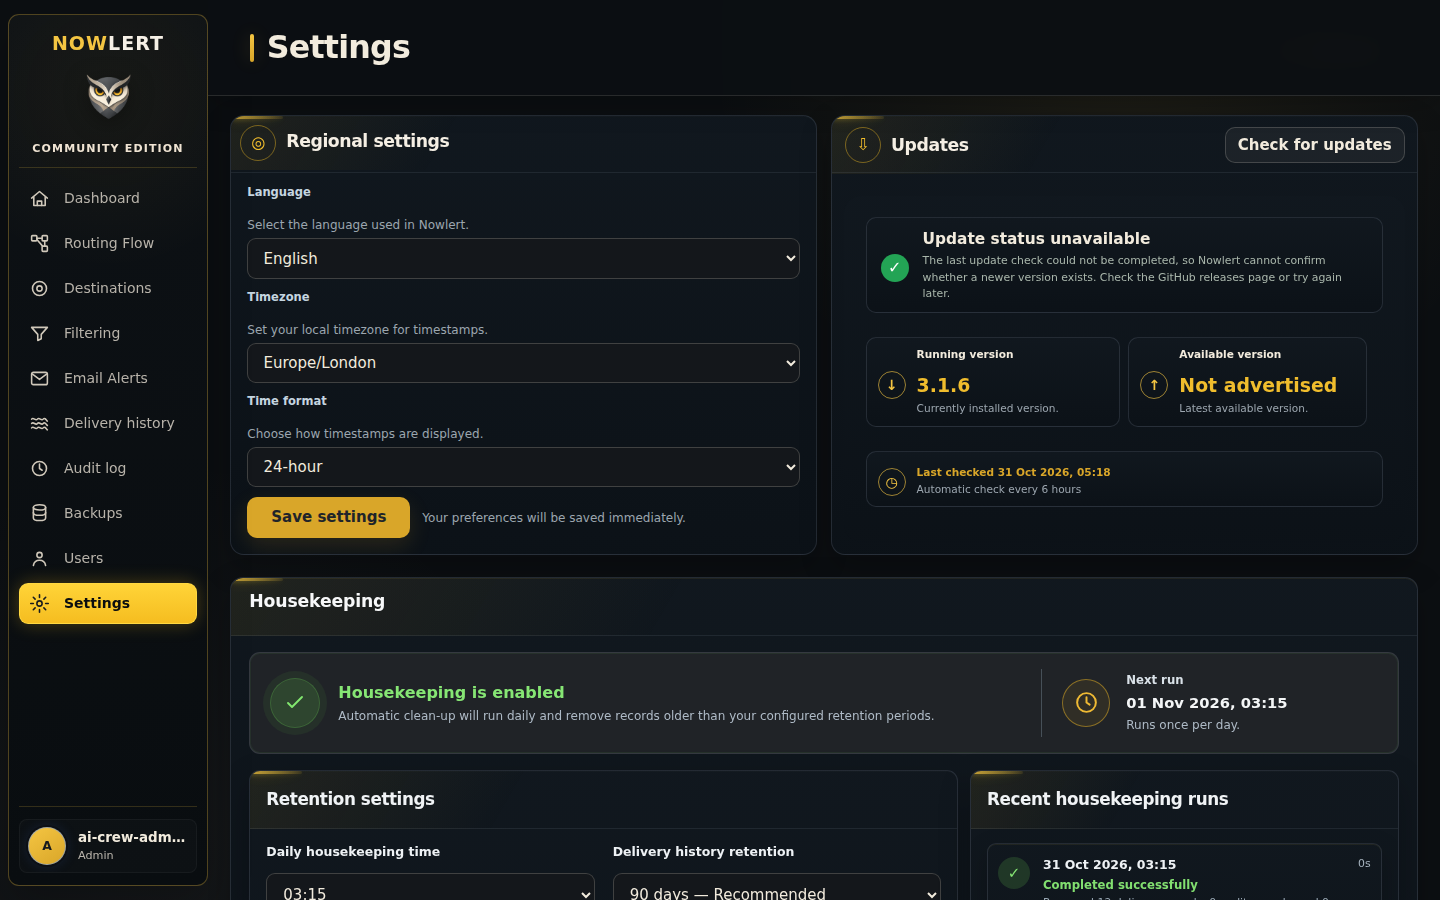
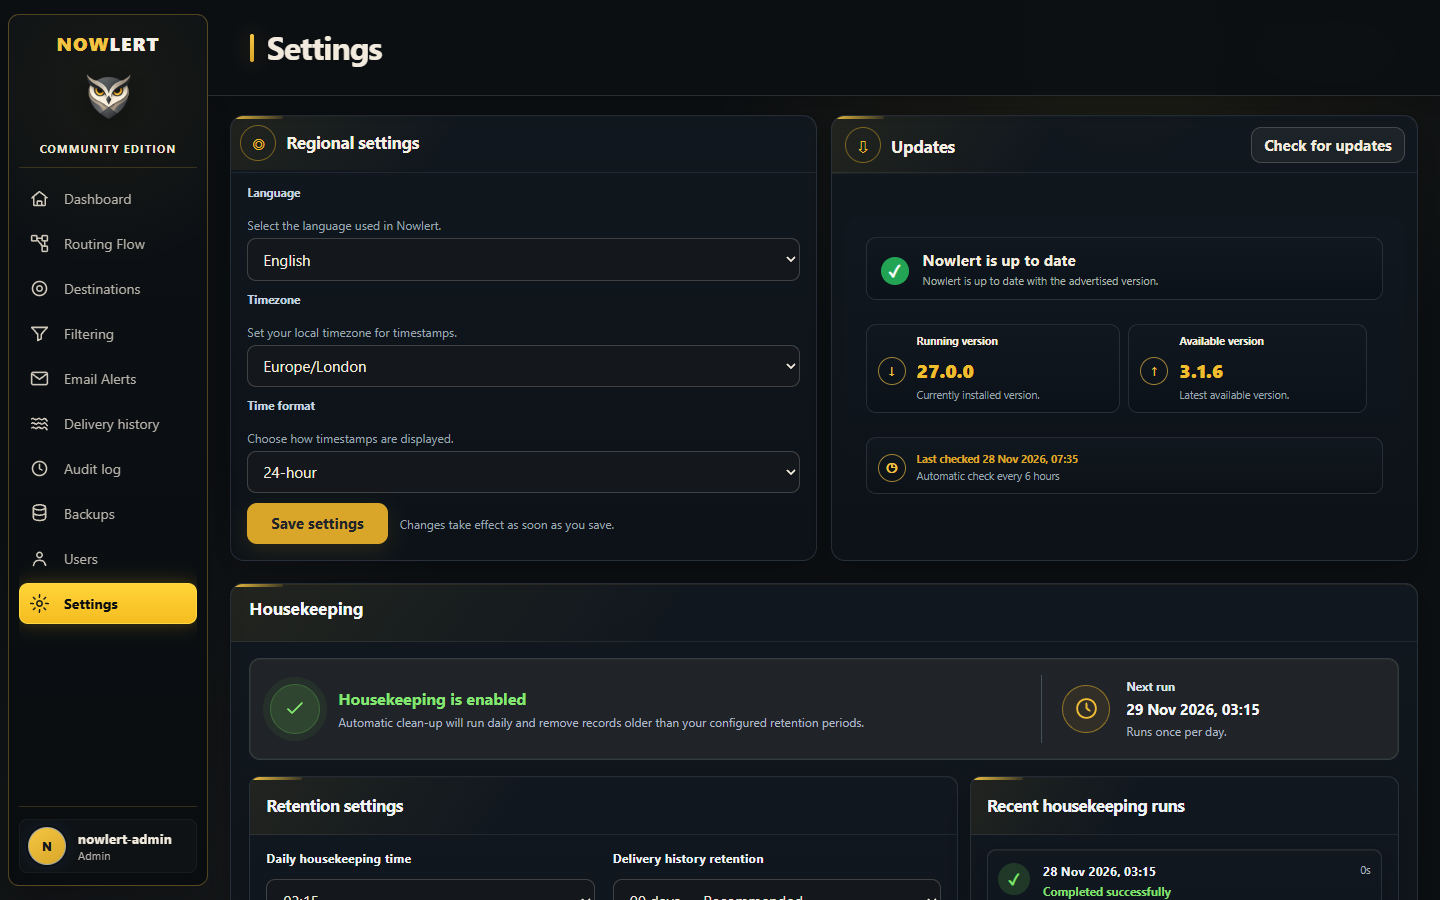
docs: retake the Settings and Audit log captures after the readiness fixes
The update card now shows its tick only after a successful check and the audit
trend figures are coloured by good or bad news (PRs 672 and 673). Both captures
are taken again on Development ea51fc67 as the neutral test administrator
nowlert-admin; the Audit log keeps solid black boxes over the record identifiers
only. The images README, the privacy inventory and the WebUI guide alt text
record the new files.

diff --git a/docs/images/v27.0.0-rc.1/README.md b/docs/images/v27.0.0-rc.1/README.md
@@ -9,6 +9,8 @@ and the Filtering capture from the Development build `0c14583c`; see
 2026" below.
 Eight captures were replaced on 12 November 2026 from the Development build
 `0011c903`; see "Replaced on 12 November 2026" below.
+The Settings and Audit log captures were replaced on 28 November 2026 from the
+Development build `ea51fc67`; see "Replaced on 28 November 2026" below.
 Nowlert CE is a desktop web
 application: since 25 October 2026 the Preview of the repository README and
 the Docker Hub README shows four of its desktop captures at full width,
@@ -52,8 +54,8 @@ pixels at scale 1: 1440×900 (desktop), 768×1024 (tablet) and 390×844 (phone).
 | `destinations-list-admin-1440.png` | Destinations list | administrator | 1440 | 15:48 |
 | `filtering-list-admin-1440.png` | Filtering with Integration behavior | administrator | 1440 | replaced 12 Nov 2026, 19:00 |
 | `email-alerts-rules-admin-1440.png` | Email Alerts, Rules tab | administrator | 1440 | 15:49 |
-| `audit-log-overview-admin-1440.png` | Audit log (user column, record identifiers and sidebar account name masked on 2 Nov 2026) | administrator | 1440 | 15:49 |
-| `settings-regional-admin-1440.png` | Settings (Regional, Updates, Housekeeping) | administrator | 1440 | replaced 31 Oct 2026, 05:21 |
+| `audit-log-overview-admin-1440.png` | Audit log (record identifiers masked) | administrator | 1440 | replaced 28 Nov 2026, 08:17 |
+| `settings-regional-admin-1440.png` | Settings (Regional, Updates, Housekeeping) | administrator | 1440 | replaced 28 Nov 2026, 08:13 |
 | `security-profile-admin-1440.png` | Security (Profile, MFA, password, Event API tokens) | administrator | 1440 | replaced 12 Nov 2026, 19:00 |
 | `users-search-admin-1440.png` | Users, filtered to the crew accounts (Recent activity account names masked) | administrator | 1440 | replaced 12 Nov 2026, 19:00 |
 | `delivery-history-zabbix-admin-1440.png` | Delivery history, Zabbix source filter (host and database labels and sidebar account name masked on 2 Nov 2026; not embedded) | administrator | 1440 | 15:53 |
@@ -189,7 +191,8 @@ The two Security rows below describe the files as captured on 31 October
 2026. Both were replaced again on 12 November 2026: the current captures have
 no **Restart Nowlert** button on the Security page (it moved to the account
 menu) and head the token section **Event API tokens**; see "Replaced on
-12 November 2026" below. The Settings row still describes the current file.
+12 November 2026" below. The Settings capture was replaced again on 28 November
+2026; see "Replaced on 28 November 2026" below.
 
 | File | Page / state | Role | Width | Captured (Lisbon) |
 |---|---|---|---|---|
@@ -323,6 +326,29 @@ Notes on these eight files:
 - The other captures of this folder were compared with the same build on
   12 November 2026 (Destinations, Routing Flow and Email Alerts rules at 768
   and 390 px) and still show the same layout, so they were kept.
+
+## Replaced on 28 November 2026 (capture base commit ea51fc67)
+
+The readiness fixes of 28 November 2026 (pull requests 672 and 673) changed
+what two captures show: the Settings update card shows its green tick only
+after a successful update check, and the Audit log trend figures are coloured
+by whether the change is good or bad news. Both files were replaced by
+captures of the Development deployment of the `development` branch at commit
+`ea51fc675170afbf79bb8fb34fd58e4e3329919c` (application version 27.0.0), taken
+on 28 November 2026 between 08:13 and 08:17 (Lisbon, +00:00) in headless
+Chrome at scale 1, 1440 × 900, dark theme, signed in as the Development test
+administrator `nowlert-admin` (not one of the crew accounts; its name is not
+masked).
+
+| File | Page / state | Role | Width |
+|---|---|---|---|
+| `settings-regional-admin-1440.png` | Settings (Regional, Updates, Housekeeping): "Nowlert is up to date" after the check of 07:35, running version 27.0.0, available version 3.1.6 (the latest published release), housekeeping enabled with its next run | administrator | 1440 |
+| `audit-log-overview-admin-1440.png` | Audit log: event counters for the last 7 days with coloured trends, health checks, the latest health check run, and the event list with the selected session login; the record identifiers under the user and resource of each row are painted over with solid black rectangles | administrator | 1440 |
+
+Both files were opened at full size after the capture (and, for the Audit
+log, after the masking). No credential, token, private address or personal
+name is shown; the Settings values are the stored preferences of the
+Development deployment.
 
 ## Names shown in the captures
 

diff --git a/docs/guides/screenshot-privacy.md b/docs/guides/screenshot-privacy.md
@@ -506,7 +506,7 @@ raster under `docs/images/` needs a row.
 | `images/unifi-setup/protect-alarms.png` | retained | restored from Git history and masked 2 Nov 2026 (the three alarm names that carried a location label; after the independent review the same day also the four alarm names that carried the retired product name); still shows the Nowlert alarm rows, categories, actions, hit counts and the detail panel |
 | `images/unifi-setup/protect-delivery.png` | retained | reviewed 15 Oct 2026 |
 | `images/unifi-setup/protect-noise-filter.png` | retained | reviewed 15 Oct 2026 |
-| `images/v27.0.0-rc.1/audit-log-overview-admin-1440.png` | retained | Development capture, 21 Oct 2026; restored from Git history and masked 2 Nov 2026 (the user column of the event list, the record identifier under each resource and, after the independent review the same day, the account name in the sidebar corner); still shows the health checks, counters, action and resource names and the selected event; embedded by the WebUI guide |
+| `images/v27.0.0-rc.1/audit-log-overview-admin-1440.png` | retained | Development capture, 28 Nov 2026, as the neutral test administrator `nowlert-admin` (replaces the masked capture of 21 Oct 2026); the record identifiers under the user and resource of each row painted over with solid black rectangles; embedded by the WebUI guide |
 | `images/v27.0.0-rc.1/dashboard-live-admin-1440.png` | retained | Development capture, 27 Nov 2026, Live with the month's data (replaces the capture of 12 Nov 2026, which showed the page still loading); opened at full size 27 Nov 2026; crew administrator, synthetic test events; README and Docker Hub Preview |
 | `images/v27.0.0-rc.1/dashboard-live-admin-390.png` | retained | Development capture, 12 Nov 2026 (replaces the capture of 21 Oct 2026); opened at full size 12 Nov 2026, no account, owner, destination or channel name; responsive-layout example in the WebUI guide |
 | `images/v27.0.0-rc.1/dashboard-live-admin-768.png` | retained | Development capture, 12 Nov 2026 (replaces the capture of 21 Oct 2026); opened at full size 12 Nov 2026 |
@@ -533,7 +533,7 @@ raster under `docs/images/` needs a row.
 | `images/v27.0.0-rc.1/routing-flow-live-admin-768.png` | retained | Development capture, 21 Oct 2026 |
 | `images/v27.0.0-rc.1/security-profile-admin-1440.png` | retained | Development capture, 12 Nov 2026 (replaces the capture of 31 Oct 2026); crew administrator account, empty token list, no token value |
 | `images/v27.0.0-rc.1/security-profile-user-1440.png` | retained | Development capture, 12 Nov 2026 (replaces the capture of 31 Oct 2026); crew user account, empty token list, no token value |
-| `images/v27.0.0-rc.1/settings-regional-admin-1440.png` | retained | Development capture, 31 Oct 2026 (replaces the capture of 21 Oct 2026); Development settings values only |
+| `images/v27.0.0-rc.1/settings-regional-admin-1440.png` | retained | Development capture, 28 Nov 2026 (replaces the capture of 31 Oct 2026); Development settings values only |
 | `images/v27.0.0-rc.1/sign-in-empty-signed-out-1440.png` | retained | Development capture, 21 Oct 2026; opened at full size 25 Oct 2026; README and Docker Hub Preview |
 | `images/v27.0.0-rc.1/sign-in-empty-signed-out-390.png` | retained | Development capture, 21 Oct 2026; opened 24 Oct 2026, no account, owner, destination or channel name; not embedded since 25 Oct 2026 |
 | `images/v27.0.0-rc.1/sign-in-empty-signed-out-768.png` | retained | Development capture, 21 Oct 2026 |

diff --git a/docs/webui.md b/docs/webui.md
@@ -386,7 +386,7 @@ corner are masked: the rows name the account that performed each action and
 carry internal record identifiers (see the
 [screenshot privacy review](guides/screenshot-privacy.md)).
 
-![Audit log with health checks, event list and event details (development, administrator, 1440 px); user column, record identifiers and sidebar account name masked](images/v27.0.0-rc.1/audit-log-overview-admin-1440.png)
+![Audit log with health checks, event list and event details (development, administrator, 1440 px); record identifiers masked](images/v27.0.0-rc.1/audit-log-overview-admin-1440.png)
 
 ### Users
 

diff --git a/CHANGELOG.md b/CHANGELOG.md
@@ -4,6 +4,9 @@
 
 ### Documentation
 
+- Settings and Audit log captures taken again on Development `ea51fc67` as the
+  neutral test administrator `nowlert-admin`, after the update card and the
+  audit trend colours changed; only the record identifiers are masked.
 - Screenshot privacy review (NCE-95): new 1440 px Dashboard and Routing Flow
   captures of Development, Live with the month's data; solid black boxes
   replace the blur in four Zabbix and Settings captures and cover the
